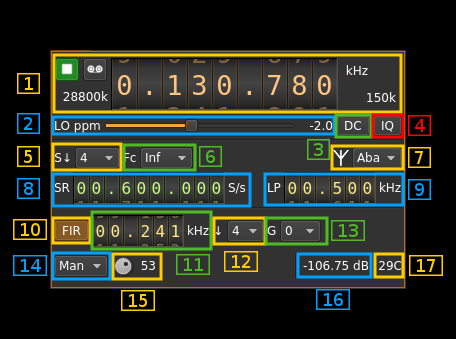
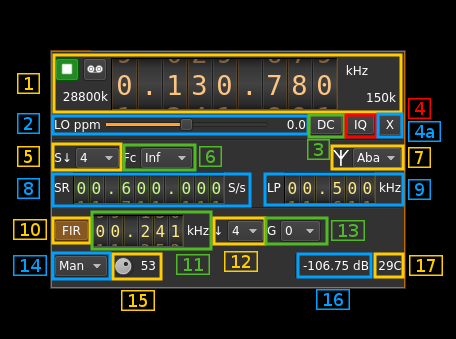
PlutoSDR input: transverter feature documentation

Changed region(s): [[0.1228, 0.2655, 0.9825, 0.4425]]

diff --git a/plugins/samplesource/plutosdrinput/readme.md b/plugins/samplesource/plutosdrinput/readme.md
@@ -72,6 +72,36 @@ These buttons control the software DSP auto correction options:
 
 &#9758; AD9363 has a good hardware DC and I/Q compensation so there should not be a use for this software auto-correction.
   
+<h3>4a: Transverter mode open dialog</h3>
+
+This button opens a dialog to set the transverter mode frequency translation options:
+
+![SDR Daemon source input stream trasverter dialog](../../../doc/img/RTLSDR_plugin_xvrt.png)
+
+Note that if you mouse over the button a tooltip appears that displays the translating frequency and if translation is enabled or disabled. When the frequency translation is enabled the button is lit.
+
+<h4>4a.1: Translating frequency</h4>
+
+You can set the translating frequency in Hz with this dial. Use the wheels to adjust the sample rate. Left click on a digit sets the cursor position at this digit. Right click on a digit sets all digits on the right to zero. This effectively floors value at the digit position. Wheels are moved with the mousewheel while pointing at the wheel or by selecting the wheel with the left mouse click and using the keyboard arroews. Pressing shift simultanoeusly moves digit by 5 and pressing control moves it by 2.
+
+The frequency set in the device is the frequency on the main dial (1) minus this frequency. Thus it is positive for down converters and negative for up converters. 
+
+For example with the DX Patrol that has a mixer at 120 MHz for HF operation you would set the value to -120,000,000 Hz so that if the main dial frequency is set at 7,130 kHz the RTLSDR of the DX Patrol will be set to 127.130 MHz.
+
+If you use a down converter to receive the 6 cm band narrowband center frequency of 5670 MHz at 432 MHz you would set the translating frequency to 5760 - 432 = 5328 MHz thus dial +5,328,000,000 Hz.
+
+For bands even higher in the frequency spectrum the GHz digits are not really significant so you can have them set at 1 GHz. Thus to receive the 10368 MHz frequency at 432 MHz you would set the translating frequency to 1368 - 432 = 936 MHz. Note that in this case the frequency of the LO used in the mixer of the transverter is set at 9936 MHz.
+
+The Hz precision allows a fine tuning of the transverter LO offset
+
+<h4>4a.2: Translating frequency enable/disable</h4>
+
+Use this toggle button to activate or deactivate the frequency translation
+
+<h4>4a.3: Confirmation buttons</h4>
+
+Use these buttons to confirm ("OK") or dismiss ("Cancel") your changes. 
+
 <h3>5: Software decimation factor</h3>
 
 The I/Q stream from the PlutoSDR is doensampled by a power of two by software inside the plugin before being sent to the passband. Possible values are increasing powers of two: 1 (no decimation), 2, 4, 8, 16, 32, 64.

diff --git a/plugins/samplesource/rtlsdr/readme.md b/plugins/samplesource/rtlsdr/readme.md
@@ -77,6 +77,8 @@ If you use a down converter to receive the 6 cm band narrowband center frequency
 
 For bands even higher in the frequency spectrum the GHz digits are not really significant so you can have them set at 1 GHz. Thus to receive the 10368 MHz frequency at 432 MHz you would set the translating frequency to 1368 - 432 = 936 MHz. Note that in this case the frequency of the LO used in the mixer of the transverter is set at 9936 MHz.
 
+The Hz precision allows a fine tuning of the transverter LO offset
+
 <h4>4a.2: Translating frequency enable/disable</h4>
 
 Use this toggle button to activate or deactivate the frequency translation
